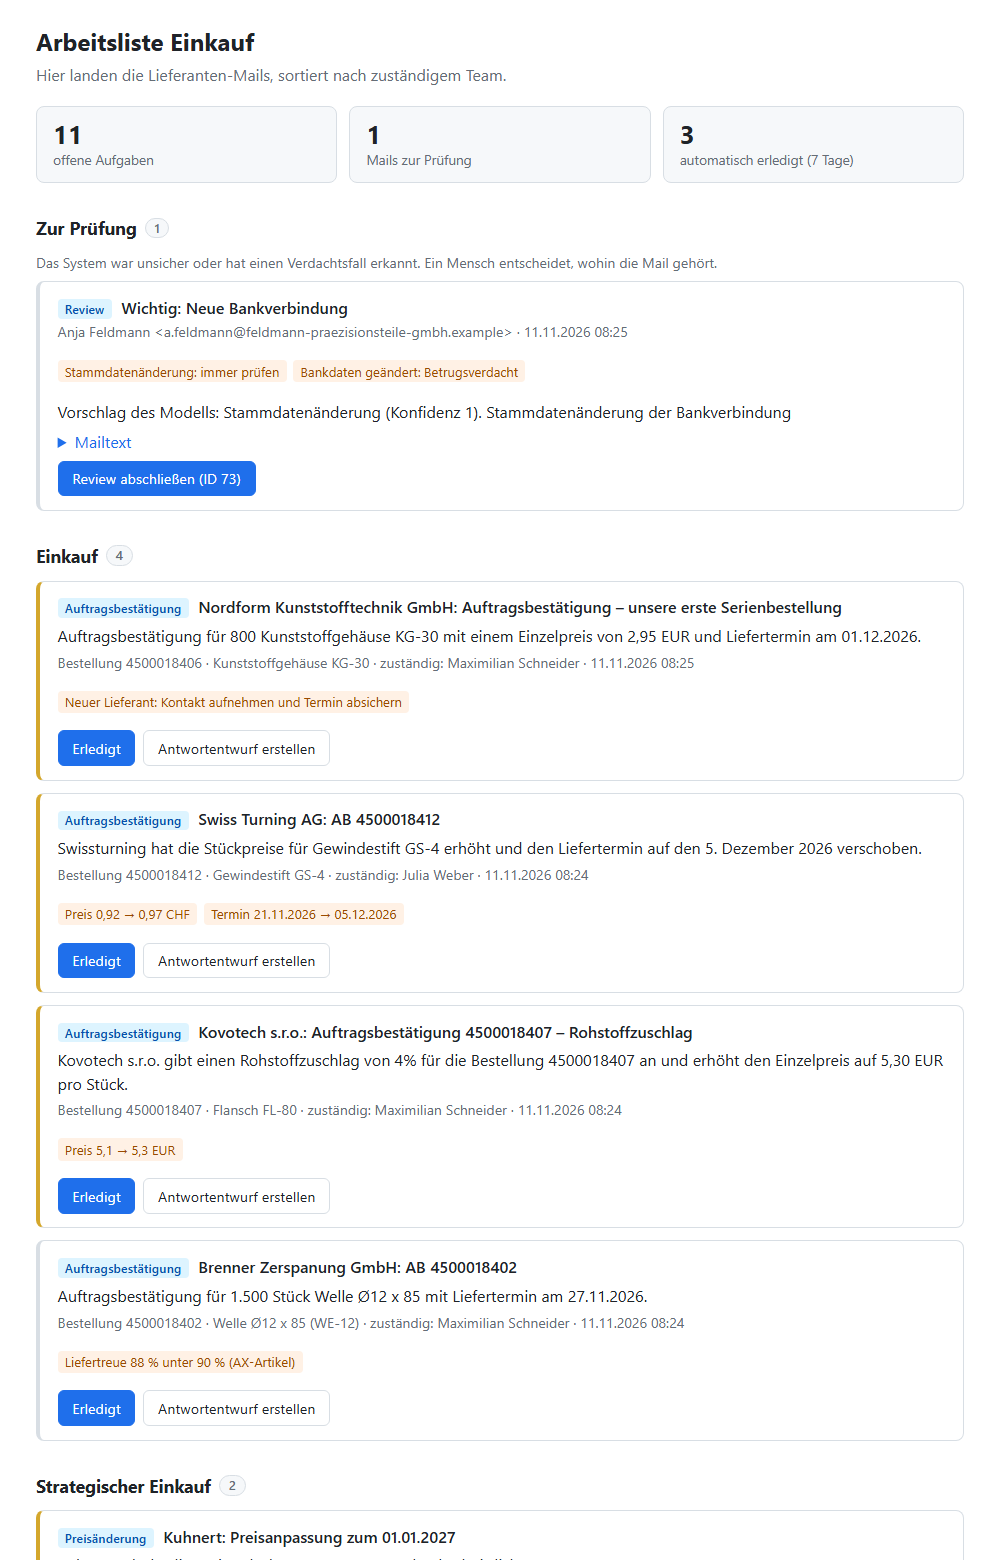
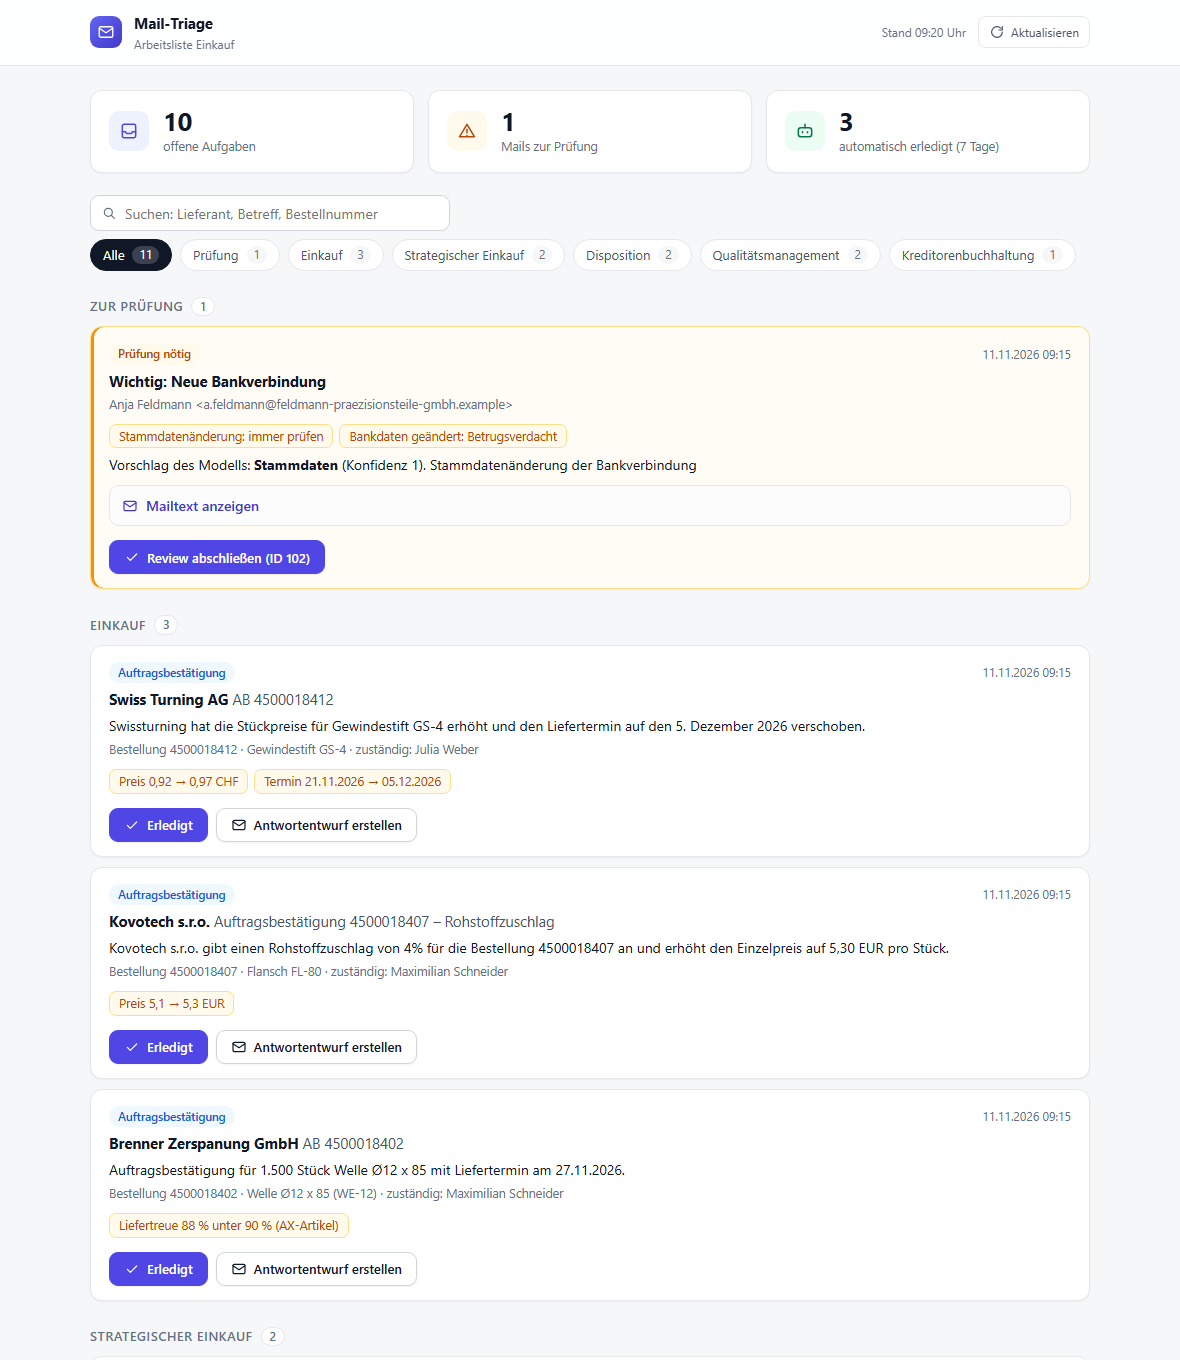
feat: Arbeitsliste im modernen Produktdesign, Suche und Filter, Erledigt-Knopf mit Token statt Herkunftsprüfung
- Neue Oberfläche: feste Kopfleiste, Kennzahlen mit Symbolen, Suche, Filter nach Team, Karten mit Kategorie-Etiketten,
  Dringlichkeit, Hinweis-Chips, aufklappbare Entwürfe und RFQ, leerer Zustand. Ein heller Stil, keine externen Schriften.
- Der Erledigt-Knopf funktionierte im Browser nie: n8n liefert die Seite in einer Sandbox aus, die Herkunft ist dann "null"
  und die Herkunftsprüfung lehnte jeden Klick ab. Jetzt trägt jede Aufgabe ein Token (sha256 aus ID und Geheimnis aus der
  neuen Tabelle app_geheimnis), das nur die Arbeitsliste kennt.
- README, Screenshot und Spickzettel angepasst.

Bestehende Datenbanken: Tabelle app_geheimnis anlegen (siehe db/init.sql).

diff --git a/README.md b/README.md
@@ -290,7 +290,7 @@ python scripts/export_workflows.py                                    # Änderun
 | http://localhost:5678 | n8n-Oberfläche (beim ersten Aufruf ein Owner-Konto anlegen) |
 | http://localhost:5678/webhook/lieferanten-mail | Eingang, `POST` mit Header `X-Webhook-Token` |
 | http://localhost:5678/webhook/arbeitsliste | Arbeitsliste: offene Aufgaben nach Team, Review-Queue, Entwürfe (Login aus `REVIEW_USER` / `REVIEW_PASSWORD`) |
-| `POST` http://localhost:5678/webhook/aufgabe | Aufgabe als erledigt markieren (nur von der Arbeitsliste aus, gleiche Herkunft) |
+| `POST` http://localhost:5678/webhook/aufgabe | Aufgabe als erledigt markieren (Login und aufgabenspezifisches Token, das nur die Arbeitsliste kennt) |
 | http://localhost:5678/form/entwurf | Antwortentwurf an den Lieferanten erstellen |
 | http://localhost:5678/form/review | Review abschließen |
 
@@ -344,6 +344,7 @@ docs/                       # Screenshots, Vorschaubilder für GitHub und Linked
 - Wird eine AB über die Review-Queue zugeordnet (z. B. nach einem Zahlendreher), läuft der Abgleich mit der Bestellung nicht automatisch nach.
 - Das Tool sendet selbst keine Mails. Antwort- und RFQ-Entwürfe öffnen sich im Mailprogramm, der Einkäufer prüft und sendet sie selbst.
 - Die Review-Queue wird weiter über ein n8n-Formular abgeschlossen, nicht direkt in der Arbeitsliste.
+- Die Arbeitsliste ist für den Browser am Rechner gestaltet, nicht für das Handy. Der Erledigt-Knopf ist über ein Token je Aufgabe abgesichert (Tabelle `app_geheimnis`). n8n liefert die Seite in einer Sandbox aus, deshalb lässt sich die Herkunft des Aufrufs nicht prüfen.
 - Die Liefertreue ist ein fester Wert je Lieferant. Im echten Einsatz käme sie aus dem ERP und würde laufend aktualisiert.
 - Im Review lässt sich nur die Kategorie korrigieren, nicht einzelne Felder. Eine verworfene Bestellnummer muss der Bearbeiter in der Notiz nachtragen.
 - Mails kommen als JSON per Webhook. Ein echtes Postfach (IMAP-Trigger), Anhänge (PDF-Rechnungen) und Benachrichtigungen der Teams sind nicht angebunden. Im Error-Workflow steht für die Benachrichtigung nur ein Platzhalter.
